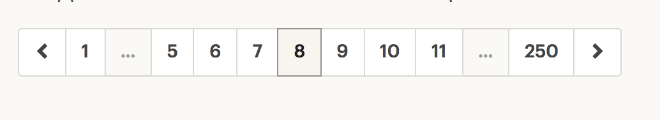
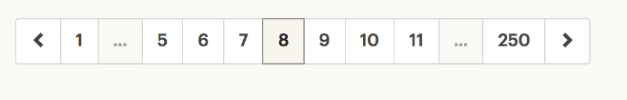
add etsy use cases

diff --git a/README.md b/README.md
@@ -51,10 +51,22 @@ Below are different websites with their pagination. I will try to analyze each c
 
 ### Etsy
 
+The pagination from [etsy.com](https://www.etsy.com) is similar to [wallmart.com](https://www.wallmart.com) pagination. 
+
+On the first page:
+
 <img src="images/etsy/first_page1.png">
+
+In the middle:
 
 <img src="images/etsy/middle1.png">
 
+Further in the middle when hellips appear:
+
 <img src="images/etsy/hellips1.png">
 
+On the last page:
+
 <img src="images/etsy/last_page1.png">
+
+*Summary*: Though it's pretty similar to the previous one it was nice and easy to click on the links due to the borders and padding they have. 
